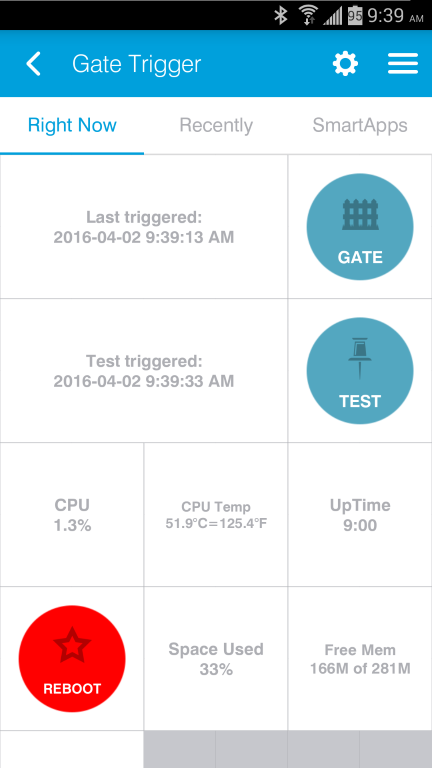
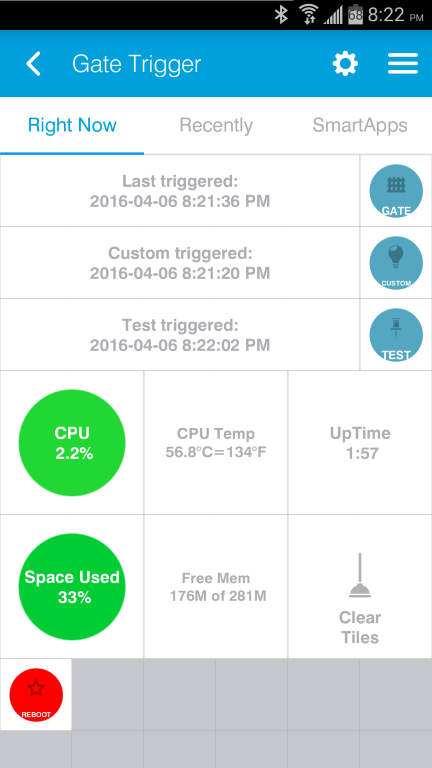
New/smaller tiles & tile colors for bad values
Added the CustomTrigger button. Made buttons smaller. CPU Temp now
accurately C to F. Added color to some tiles. Defaulting in port & body
if left empty in prefs.

diff --git a/Devices/Generic HTTP Device/index.php b/Devices/Generic HTTP Device/index.php
@@ -1,4 +1,4 @@
-<?php //v1.0.20160405
+<?php //v1.0.20160406
 
 $perform_authentication=false;
 
@@ -35,10 +35,16 @@ $rpi = array(
 	"Space Used" => shell_exec('df -h|grep /dev/root | awk \'{print $(NF-1)}\' | tr -d \'\n\''),
 	"UpTime" => trim(substr(shell_exec('uptime'),strpos(shell_exec('uptime'), 'up')+2, strpos(shell_exec('uptime'), ',')-strpos(shell_exec('uptime'), 'up')-2)),
 	"CPU" => shell_exec('grep \'cpu \' /proc/stat | awk \'{usage=($2+$4)*100/($2+$4+$5)} END {print usage "%"}\' | sed \'s/\(\.[0-9]\).*$/\1%/g\' | tr -d \'\n\''),
-	"CPU Temp" => shell_exec('sudo vcgencmd measure_temp | sed "s/temp=//g" | tr -d \'\n\'').' '.round(trim(substr(shell_exec('sudo vcgencmd measure_temp | sed "s/temp=//g" | tr -d \'\n\''),0, strpos(shell_exec('sudo vcgencmd measure_temp | sed "s/temp=//g" | tr -d \'\n\''), '\'')-6))*9/5+32,1) . '\'F',
+	"CPU Temp" => CPUTemp(),
+	//"CPU Temp" => function($name) {return 100;},
 	"Free Mem" => shell_exec('free -t -h | tr -s " " | grep "Total:" | awk -F " " \'{print $4 " of " $2}\' | tr -d \'\n\'')
 );
 
+function CPUTemp() {
+	$celcius = shell_exec('sudo vcgencmd measure_temp | sed "s/temp=//g" | tr -d \'\n\'');
+	$fahrenheit = round(substr(str_replace("C","",$celcius), 0, -1) * 1.8 + 32, 0) . "'F";
+    return $celcius .' '. $fahrenheit;
+}
 if (isset($_POST['GateTrigger'])) {
 	exec("sudo gpio -g mode 4 out ; gpio -g write 4 0 ; sleep 1 ; gpio -g write 4 1");
 	$rpi = $rpi + array("GateTrigger" => "Success");
@@ -47,6 +53,7 @@ if (isset($_POST['Test'])) {
 	$rpi = $rpi + array("Test" => "Success");
 }
 if (isset($_POST['CustomTrigger'])) {
+	shell_exec("sudo gpio -g mode 21 out ; gpio -g write 21 0 ; sleep 1 ; gpio -g write 21 1");
 	$rpi = $rpi + array("CustomTrigger" => "Success");
 }
 if (isset($_POST['RebootNow'])) {
@@ -134,18 +141,10 @@ echo "CPU Temp=".str_replace("'","°",$rpi['CPU Temp'])."\n";
 //FREE MEMORY
 echo "Free Mem=".$rpi['Free Mem']."\n";
 
-if (isset($_POST['GateTrigger'])) {
-	echo "GateTrigger=Success\n";
-}
-if (isset($_POST['Test'])) {
-	echo "Test=Success\n";
-}
-if (isset($_POST['CustomTrigger'])) {
-	echo "CustomTrigger=Success\n";
-}
-if (isset($_POST['RebootNow'])) {
-	echo "RebootNow=Success\n";
-}
+if (isset($_POST['GateTrigger'])) { echo "GateTrigger=Success\n"; }
+if (isset($_POST['Test'])) { echo "Test=Success\n"; }
+if (isset($_POST['CustomTrigger'])) { echo "CustomTrigger=Success\n"; }
+if (isset($_POST['RebootNow'])) { echo "RebootNow=Success\n"; }
 ?>
 </pre>
 

diff --git a/Devices/Generic HTTP Device/README.md b/Devices/Generic HTTP Device/README.md
@@ -12,6 +12,7 @@ This is the original video that I used for the Raspberry Pi piece: https://www.y
 
 The SmartThings driver was a few hours of self-learning and a bit of frustration --- I really wanted that value tile to show me the last time the script ran WITH SUCCESS.
 
+</br>v1.0.20160406 - Added the CustomTrigger button. Made buttons smaller. CPU Temp now accurately C to F. Added color to some tiles. Defaulting in port & body if left empty in prefs.
 </br>v1.0.20160405 - Modified Space Used to use awk instead of cut and delimiters. GitHub reported bug.
 </br>v1.0.20160402 - Added JSON support. Modified Reboot tile with states. Added Clear Tiles button.
 </br>v1.0.20160328 - Modified tile background while in "running" states and added free memory tile.
